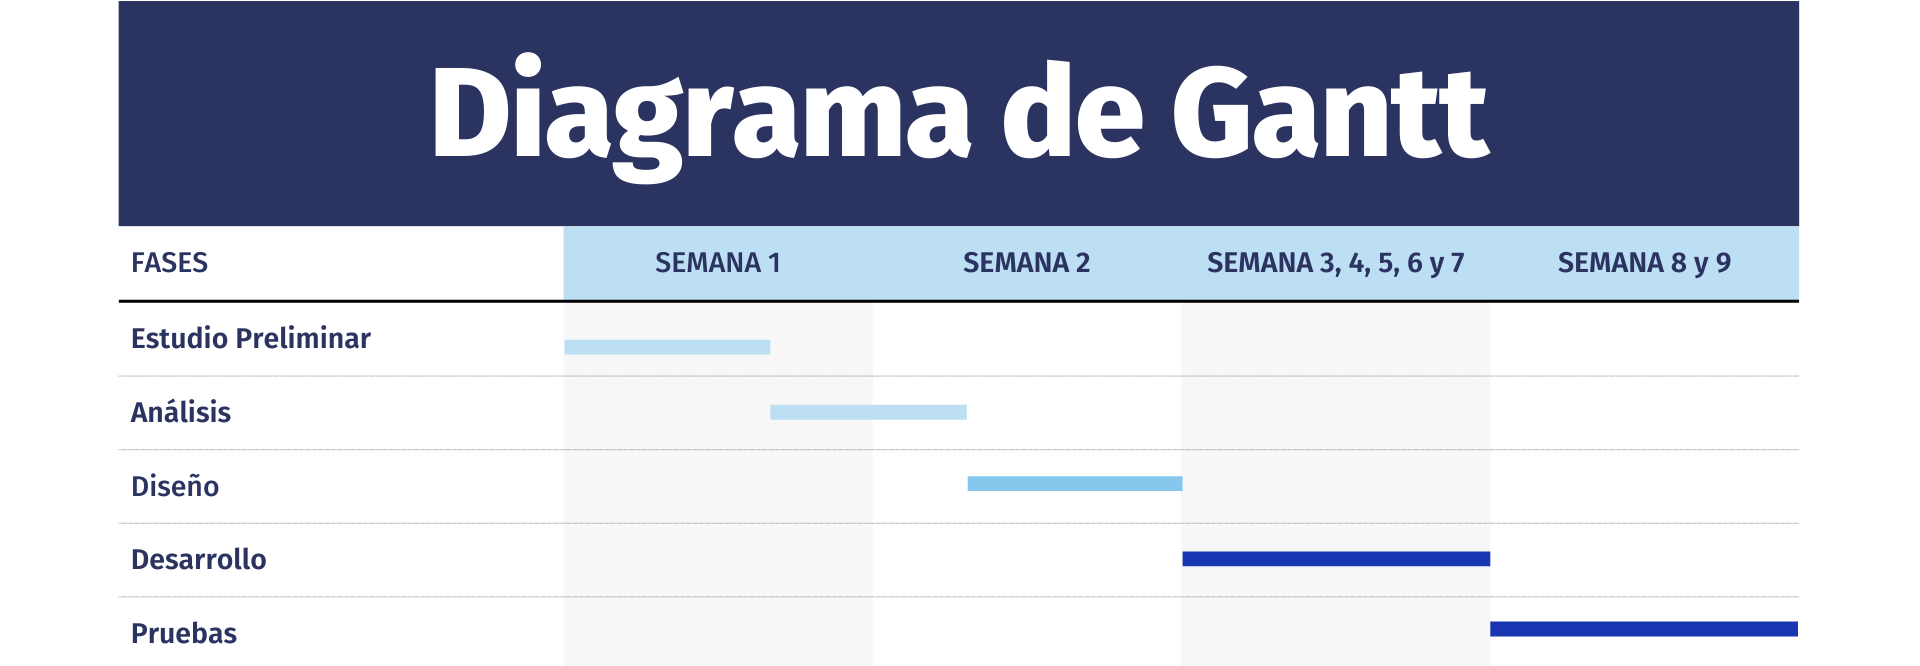
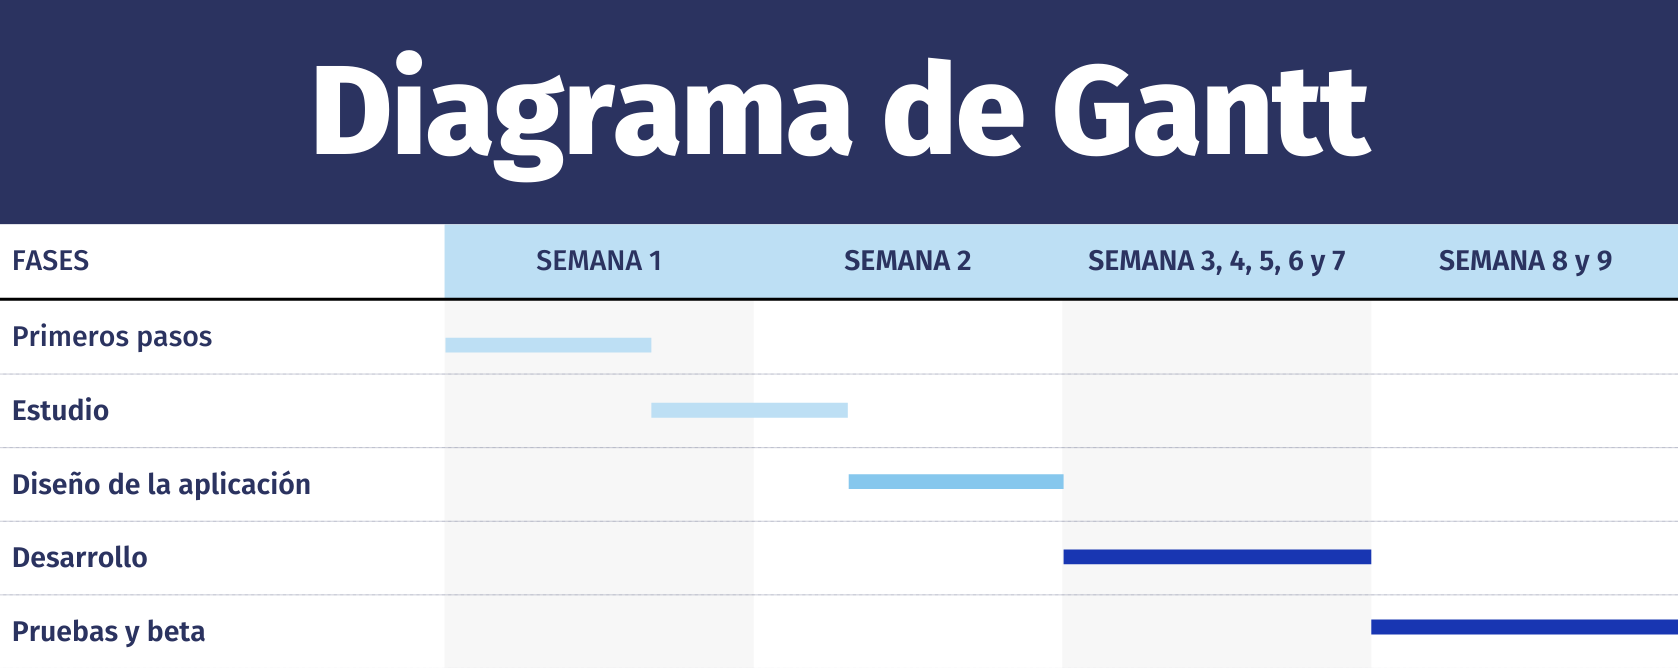
correcciones en el diseño

diff --git a/doc/templates/3_Deseño.md b/doc/templates/3_Deseño.md
@@ -21,17 +21,6 @@ Un ejemplo sería el siguiente:
 
 ![DIAGRAMA UML](img_3/casos_de_uso.png)
 
-Con este diagrama de casos de uso, se observa que a la página
-principal podrían acceder todos los usuarios y navegar por las
-distintas secciones. En cambio, para el club hay que estar registrado.
-
-Los usuarios genéricos tienen la posibilidad de crear una cuenta para
-poder entrar. El usuario registrado accede a su panel, donde puede
-consultar su número en el club, su saldo de puntos y las recompensas
-disponibles. Los administradores acceden con su cuenta a un panel
-diferente. En este, se pueden realizar diferentes acciones (añadir
-puntos, canjear recompensas, etc.).
-
 ## 3- Diagrama de Base de Datos
 
 ![MODELO RELACIONAL](img_3/modelo_relacional.png)